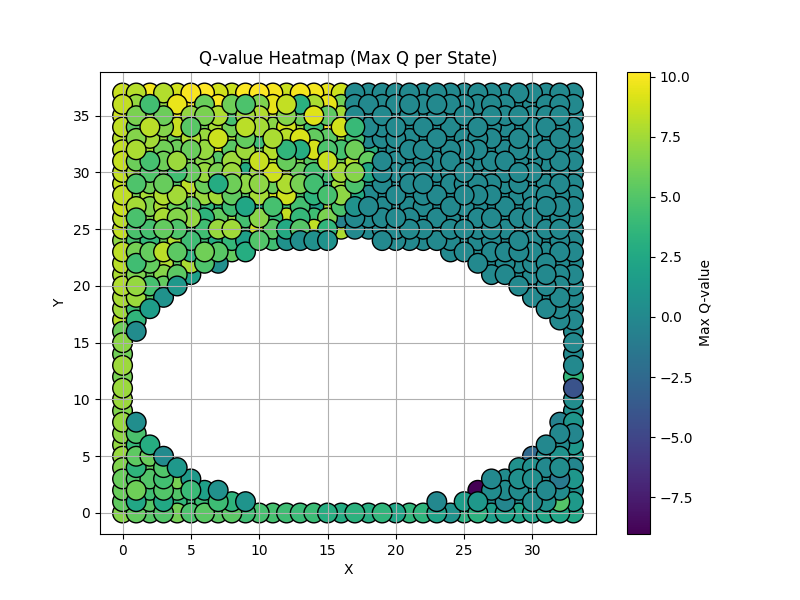
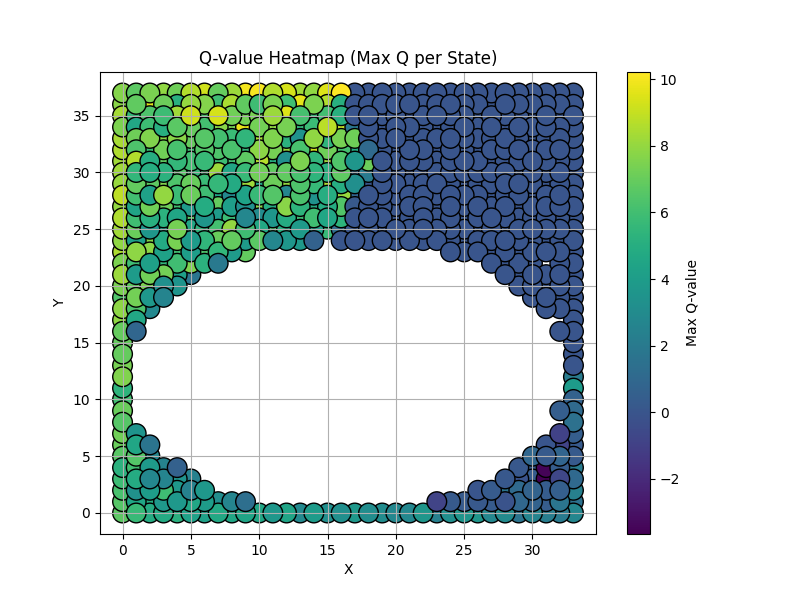
shit

diff --git a/Algorithms/approximate_q_learning.py b/Algorithms/approximate_q_learning.py
@@ -1,2 +1,74 @@
+import numpy as np
 import random
 
+class LinearQTablePolicy:
+    def __init__(self, theta, env):
+        self.theta = theta  # Weights for function approximation
+        self.env = env
+    
+    def __call__(self, state):
+        """
+        Given a state, return the action with the highest Q-value.
+        If no actions are available, return None.
+        """
+        features = [self.env.feature_vector(state, action) for action in self.env.actions_at(state)]
+        q_values = [np.dot(self.theta, f) for f in features]
+        best_action = self.env.actions[np.argmax(q_values)]
+        return best_action
+
+def approximate_q_learning(env, num_episodes=1000, alpha=0.1, gamma=0.9, epsilon=1):
+    """
+    Performs approximate Q-learning with linear function approximation.
+    """
+    # Initialize weights for function approximation
+    theta = np.zeros(len(env.feature_vector(env.initial_state, list(env.actions)[0])))  # Initialize theta to zeros
+
+    epsilon_decay = 0.99
+
+    for _ in range(num_episodes):
+        state = env.initial_state
+        done = False
+        while not done:
+            # Epsilon-greedy action selection
+            if random.random() < epsilon:
+                # Pick a random action
+                action = random.choice(env.actions)
+            else:
+                # Use the current policy to select the best action
+                action = LinearQTablePolicy(theta, env)(state)
+
+            # Take action and observe next state and reward
+            next_state, reward = env.act(state, action)
+
+            # Compute feature vector for current state-action pair
+            feature_vec = env.feature_vector(state, action)
+
+            # Compute max Q-value for next state (using greedy policy)
+            next_features = [env.feature_vector(next_state, a) for a in env.actions_at(next_state)]
+            next_q_values = [np.dot(theta, f) for f in next_features]
+            max_q_next = max(next_q_values, default=0)
+
+            # Compute TD error
+            td_error = reward + gamma * max_q_next - np.dot(theta, feature_vec)
+
+            # Update weights using gradient descent
+            theta += alpha * td_error * feature_vec
+
+            state = next_state
+            done = env.is_terminal(state)
+
+        # Decay epsilon to encourage exploitation
+        epsilon = max(0.1, epsilon * epsilon_decay)
+
+    return LinearQTablePolicy(theta, env)
+
+def run_approximate_q_learning(env, num_episodes=10000, env_name=''):
+    x = env.initial_state
+    states = [x]
+    policy = approximate_q_learning(env)
+    for _ in range(num_episodes):
+        x, _ = env.act(x, policy(x))
+        states.append(x)
+        if env.is_terminal(x):
+            break
+    env.display(states, policy_algorithm=f'{env_name}_approximate_q_learning')

diff --git a/MDP/gridworld_c.py b/MDP/gridworld_c.py
@@ -1,6 +1,7 @@
 #!/usr/bin/env python3
 
 from enum import Enum
+import math
 from MDP.mdp import MDP
 import numpy as np
 import matplotlib.pyplot as plt
@@ -18,6 +19,12 @@ _VEC = {
     Actions.RIGHT: np.array([1, 0])
 }
 
+_ACTION_VECS = {
+    Actions.UP: np.array([1, 0, 0, 0]),
+    Actions.DOWN: np.array([0, 1, 0, 0]),
+    Actions.LEFT: np.array([0, 0, 1, 0]),
+    Actions.RIGHT: np.array([0, 0, 0, 1])
+}
 
 def _clip(p, max_x, max_y):
     p = np.array([max(min(p[0], max_x), 0),
@@ -140,6 +147,26 @@ class ContinuousGridWorldMDP(MDP):
         if self.in_walls(next_state): # Bounce back
             return state, self.r(state, state)
         return next_state, self.r(state, next_state)
+    
+    def compute_distance(self, agent_pos):
+        x_agent, y_agent = agent_pos
+        return math.sqrt((x_agent - self.goal_x) ** 2 + (y_agent - self.goal_y) ** 2)
+
+    def normalize_distance(self, agent_pos):
+        max_distance = math.sqrt((self.width - 1) ** 2 + (self.height - 1) ** 2)
+        distance = self.compute_distance(agent_pos)
+        return distance / max_distance  # Normalized distance in the range [0, 1]
+
+    def feature_vector(self, state, action):
+        """
+        Returns the feature vector for a given state and action.
+        The feature vector is a list of features that represent the state-action pair.
+        """
+        # Example feature vector: [x, y, action]
+        assert self.goal_x is not None and self.goal_y is not None, "Goal position must be set before calculating feature vector."
+        goal_distance = self.normalize_distance(state)
+        action_vec = _ACTION_VECS[action]
+        return np.array([state[0], state[1], *action_vec, state[0]/self.width, state[1]/self.height, goal_distance])
 
     def display(self, states, policy_algorithm=None):
         """

diff --git a/world_model_unknown.py b/world_model_unknown.py
@@ -1,3 +1,4 @@
+from Algorithms.approximate_q_learning import run_approximate_q_learning
 from Algorithms.q_learning import run_q_learning
 from MDP.gridworld_c import ContinuousGridWorldMDP
 
